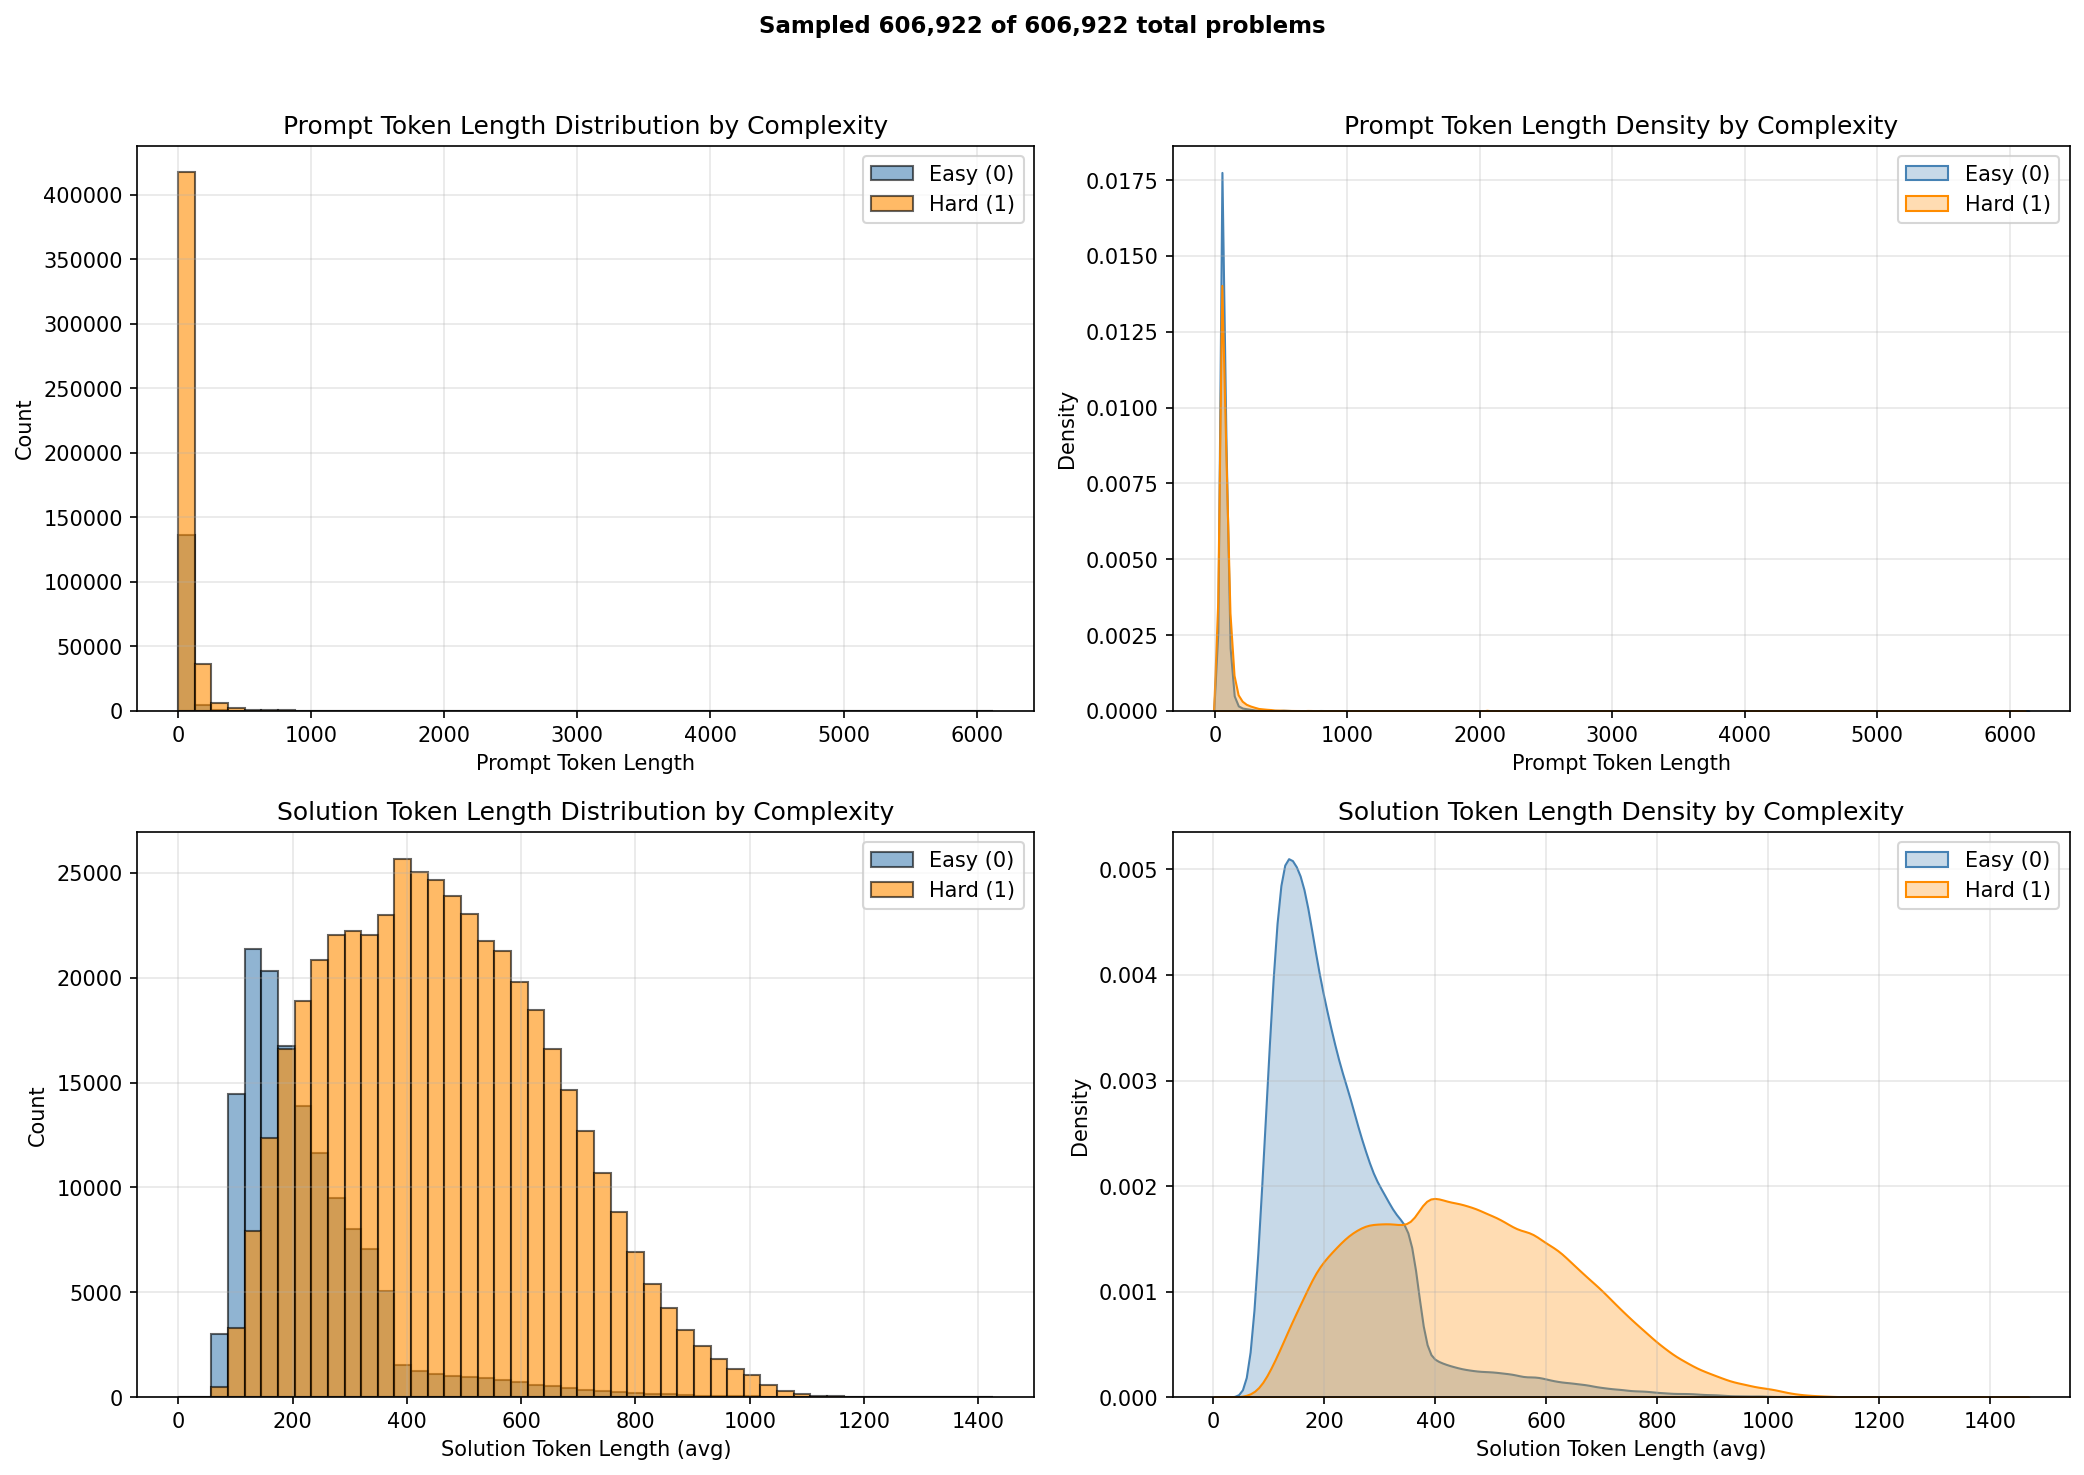
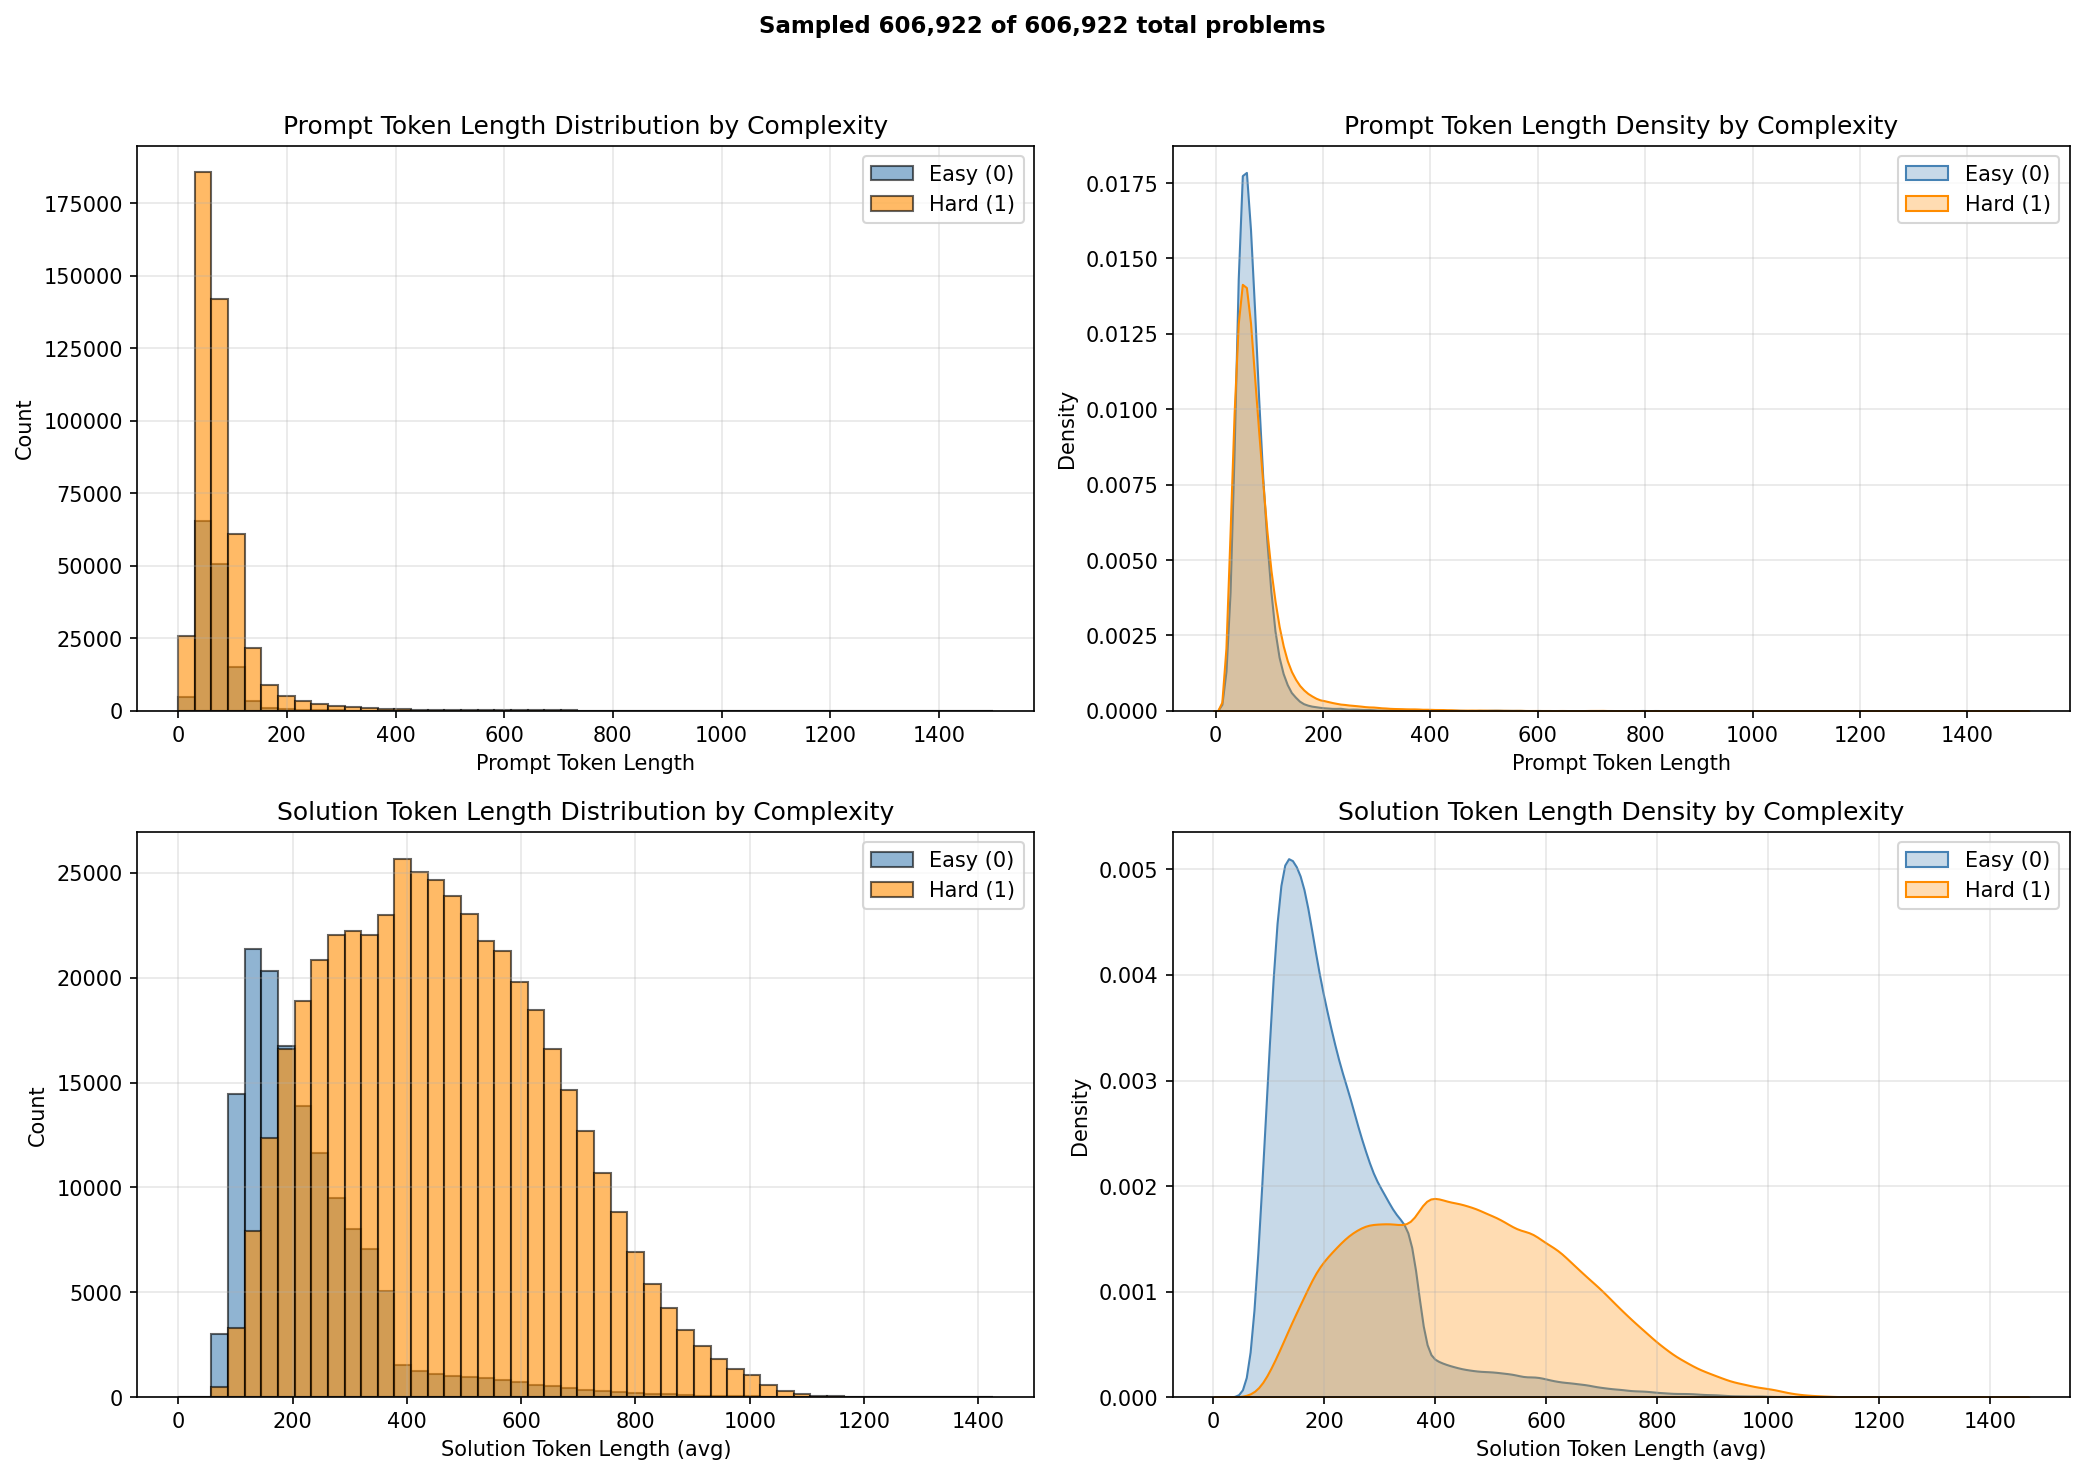
fix: remove premature num-shards argument and reorganize config
- Remove --num-shards argument from preprocess_dpo_data.py
- Reorganize token length paths in config.py to proper location
- Update token_lengths.png visualization

diff --git a/scripts/preprocess_dpo_data.py b/scripts/preprocess_dpo_data.py
@@ -154,7 +154,6 @@ def main():
     parser.add_argument("--problem-index", type=str, default=PROBLEM_TO_INDEX_PATH, help="Path to problem_to_index.pkl")
     parser.add_argument("--max-pairs-per-problem", type=int, default=25, help="Maximum number of DPO pairs per problem (stratified by rejection_reason), enter -1 for no limit")
     parser.add_argument("--length-ratio", type=float, default=1.5, help="Minimum length ratio between preferred and rejected solutions, default: 2.0 (1.0 = no filter)")
-    parser.add_argument("--num-shards", type=int, default=None, help="Number of shards for parallel tokenization (default: 4x num_workers)")
     parser.add_argument("--over-limit-json", type=str, default=str(OVER_LIMIT_PROBLEMS_PATH), help="Path to JSON file with problems exceeding token limit")
     args = parser.parse_args()
 
@@ -208,7 +207,6 @@ def main():
         num_workers=32,
         batch_size=10_000,
         pad_token_id=_tok.pad_token_id,
-        num_shards=args.num_shards,
     )
     logger.info(f"      Tokenized {total_pairs:,} pairs, saved to {output_dir}")
 

diff --git a/src/config.py b/src/config.py
@@ -35,13 +35,13 @@ PROCESSED_DATASET_PATH_BALANCED = DATA_PATH / "processed_dpo_dataset_balanced"
 GSM8K_TEST_PATH = DATA_PATH / "gsm8k_test.jsonl"
 MATH_TEST_PATH = DATA_PATH / "math_test.jsonl"
 
-# Token length analysis outputs
-OVER_LIMIT_PROBLEMS_PATH = PROJECT_ROOT / "reports" / "data" / "problems_over_token_limit.json"
-TOKEN_LENGTH_STATS_PATH = PROJECT_ROOT / "reports" / "data" / "token_length_stats.csv"
-
 # Similarity Search - Embedding
 SIMILARITY_INDEX_DIR = DATA_PATH / "math_problem_index"
 EMBEDDING_MODEL = "sentence-transformers/multi-qa-MiniLM-L6-cos-v1"
+
+# Token length analysis outputs
+OVER_LIMIT_PROBLEMS_PATH = PROJECT_ROOT / "reports" / "data" / "problems_over_token_limit.json"
+TOKEN_LENGTH_STATS_PATH = PROJECT_ROOT / "reports" / "data" / "token_length_stats.csv"
 
 
 def get_processed_dataset_path() -> Path:
